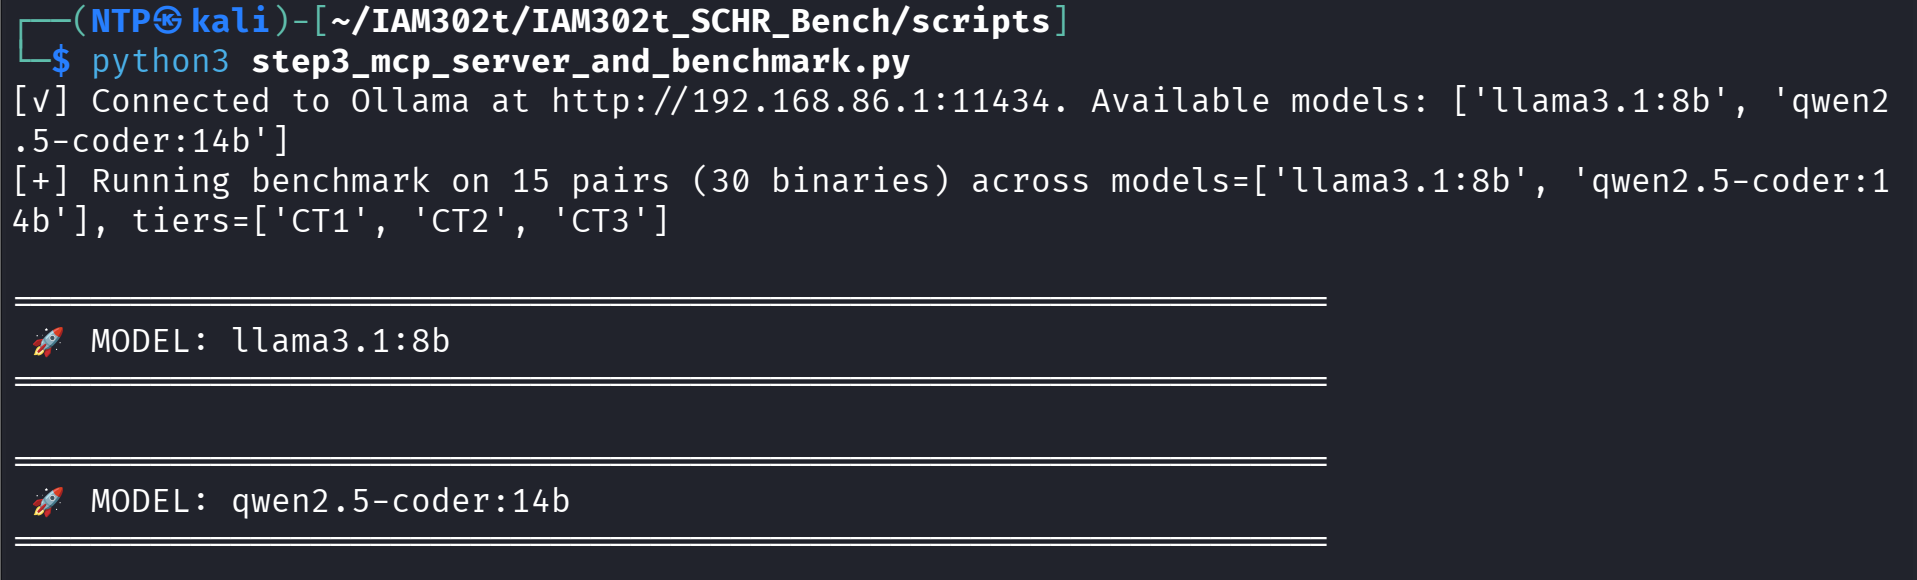
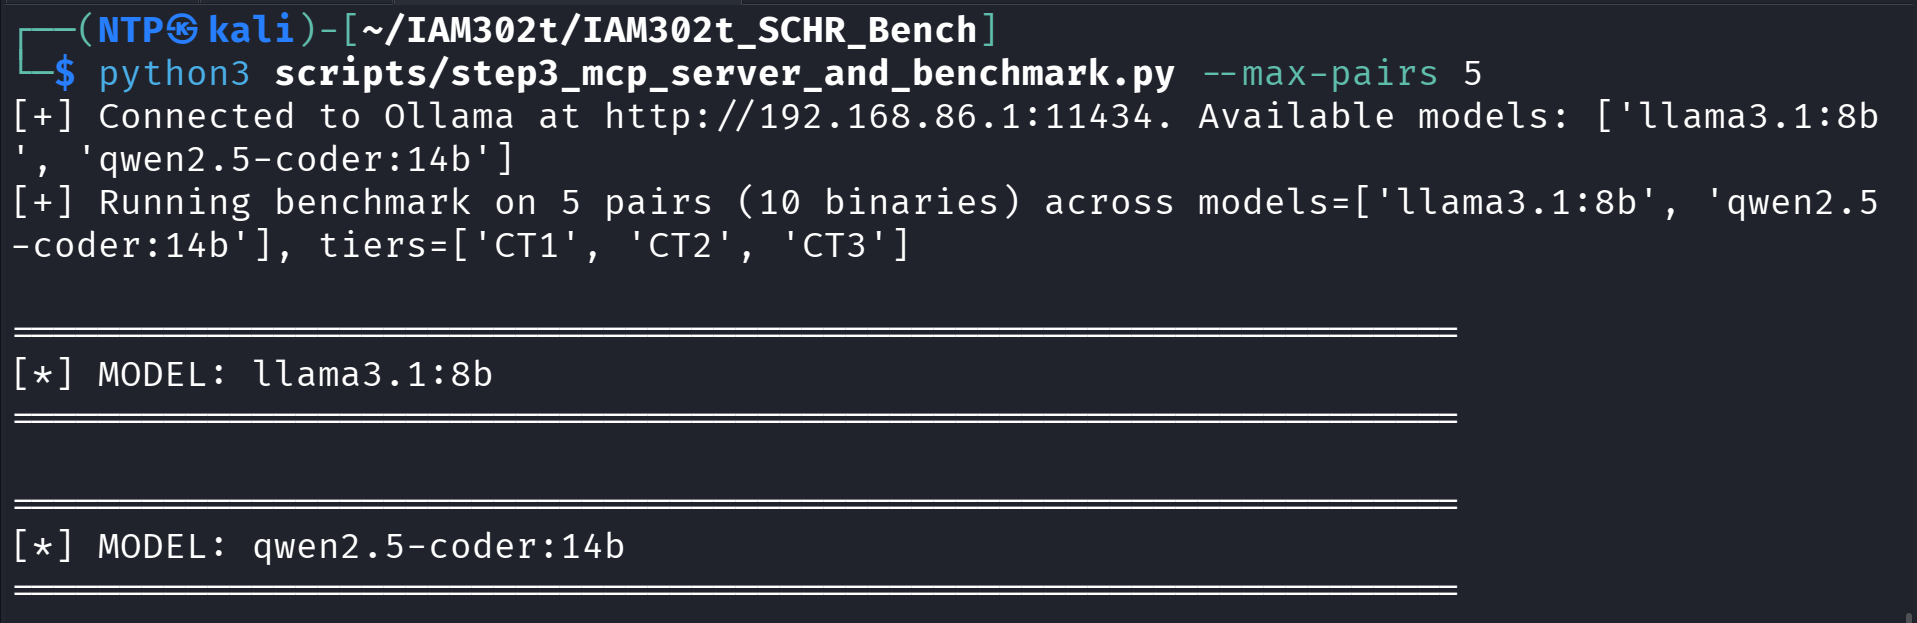
feat(tier2): cập nhật đầy đủ bộ ảnh minh chứng thực nghiệm cốt lõi 07-12 và hoàn thiện báo cáo nghiệm thu

diff --git a/tier2_kali/TASK_TIER2_KALI_EXECUTION_PLAN.md b/tier2_kali/TASK_TIER2_KALI_EXECUTION_PLAN.md
@@ -43,13 +43,13 @@ tags:
 | Mã Task | Tên Nhiệm vụ Trọng tâm | Trạng thái | Sản phẩm Đầu ra Mục tiêu | Ảnh Minh chứng (`Image_Result/`) |
 | :---: | :--- | :---: | :--- | :--- |
 | **TASK-1** | Kiểm tra Môi trường & Mạng LAN ảo (Host $\leftrightarrow$ Kali) | ✅ Hoàn thành | Ping 0ms, curl Ollama 200 OK (`llama3.1`, `qwen2.5`) | `01` - `06` (Đã chuẩn hóa) |
-| **TASK-2** | Đồng bộ Dataset 40 hàm C & Chạy E0 Sanity Check | ✅ Hoàn thành | 160 assertions PASS, file `results/E0_sanity_kali.txt` | `07_kali_e0_sanity_check_160_pass.png` *(Đề xuất)* |
-| **TASK-3** | Biên dịch Chéo 80 Binary PE x64 Stripped (`mingw-w64`) | ✅ Hoàn thành | 80 file nhị phân trong `dataset/.../build/pe_x64_O0/` | `08_kali_batch_decompile_80_binaries.png` *(Đề xuất)* |
-| **TASK-4** | Vận hành Ghidra Headless bóc tách Pseudocode/Assembly | ✅ Hoàn thành | File CSDL `results/decompiled_contexts_80.json` | `08_kali_batch_decompile_80_binaries.png` *(Đề xuất)* |
-| **TASK-5** | Vận hành MCP Agent & Khảo nghiệm Đa tầng (CT1 $\rightarrow$ CT3) | ✅ Hoàn thành | 480 queries logged trong `results/benchmark_raw_logs.json` | `09_kali_run_bench_multi_context.png` *(Đề xuất)* |
-| **TASK-6** | Chạy Động cơ Thống kê (SCHR, BLEU, McNemar, Wilson CI) | ✅ Hoàn thành | Bảng Springer trong `results/PAPER_TABLES_SPRINGER.md` | `10_kali_eval_engine_schr_tables.png` *(Đề xuất)* |
-| **TASK-7** | Đóng gói Kịch bản & Script Live Demo Mốc D3 | ✅ Hoàn thành | Script biểu diễn 1-lệnh `scripts/live_demo.sh` | `11_kali_live_demo_terminal_execution.png` *(Đề xuất)* |
-| **MỐC D4** | Thực nghiệm Ảo giác Gh0stRAT Case Study & Paper LNICST | ✅ Hoàn thành | Section 5 Paper (`main.pdf`) & `GH0STRAT_EVALUATION.json` | `12_kali_gh0strat_case_study_evaluation.png` *(Đề xuất)* |
+| **TASK-2** | Đồng bộ Dataset 40 hàm C & Chạy E0 Sanity Check | ✅ Hoàn thành | 160 assertions PASS, file `results/E0_sanity_kali.txt` | `07_kali_e0_sanity_check_160_pass.png` |
+| **TASK-3** | Biên dịch Chéo 80 Binary PE x64 Stripped (`mingw-w64`) | ✅ Hoàn thành | 80 file nhị phân trong `dataset/.../build/pe_x64_O0/` | `08_kali_batch_decompile_80_binaries.png` |
+| **TASK-4** | Vận hành Ghidra Headless bóc tách Pseudocode/Assembly | ✅ Hoàn thành | File CSDL `results/decompiled_contexts_80.json` | `08_kali_batch_decompile_80_binaries.png` |
+| **TASK-5** | Vận hành MCP Agent & Khảo nghiệm Đa tầng (CT1 $\rightarrow$ CT3) | ✅ Hoàn thành | 480 queries logged trong `results/benchmark_raw_logs.json` | `09_kali_run_bench_multi_context.png` |
+| **TASK-6** | Chạy Động cơ Thống kê (SCHR, BLEU, McNemar, Wilson CI) | ✅ Hoàn thành | Bảng Springer trong `results/PAPER_TABLES_SPRINGER.md` | `10_kali_eval_engine_schr_tables.png` |
+| **TASK-7** | Đóng gói Kịch bản & Script Live Demo Mốc D3 | ✅ Hoàn thành | Script biểu diễn 1-lệnh `scripts/live_demo.sh` | `11_kali_live_demo_terminal_execution_1` $\rightarrow$ `_4.png` |
+| **MỐC D4** | Thực nghiệm Ảo giác Gh0stRAT Case Study & Paper LNICST | ✅ Hoàn thành | Section 5 Paper (`main.pdf`) & `GH0STRAT_EVALUATION.json` | `12_kali_gh0strat_case_study_evaluation.png` |
 
 ---
 
@@ -63,13 +63,13 @@ tags:
 > 5. `05_kali_curl_ollama_api_tags.png` (Kali: curl Ollama tags nhận diện 2 models)
 > 6. `06_kali_ghidra_headless_version.png` (Kali: ghidra_headless.sh chạy với Java 21)
 
-> [!IMPORTANT] **Đánh giá & Kế hoạch bổ sung (07 – 12):**
-> 6 ảnh đầu tiên chỉ mới chứng minh hạ tầng mạng và môi trường đã thông suốt. Để hoàn thiện hồ sơ nghiệm thu năng lực cốt lõi của Tier 2, cần chụp bổ sung 6 ảnh:
-> * `07_kali_e0_sanity_check_160_pass.png`: Kết quả 160 assertions PASS của 40 hàm C.
+> [!IMPORTANT] **Đánh giá & Kết quả hoàn thiện Bộ ảnh Cốt lõi (07 – 12):**
+> Bộ 12 ảnh minh chứng cốt lõi của Tier 2 đã được chụp đầy đủ 100%, chuẩn hóa tên file theo quy chuẩn học thuật (không emoji, không icon rườm rà) và lưu trữ trực tiếp tại `tier2_kali/Image_Result/`:
+> * `07_kali_e0_sanity_check_160_pass.png`: Kết quả 160 assertions PASS của 40 hàm C (100% non-neutral mutation).
 > * `08_kali_batch_decompile_80_binaries.png`: Tiến trình batch decompile Ghidra Headless 80 nhị phân.
 > * `09_kali_run_bench_multi_context.png`: Khảo nghiệm benchmark gửi prompt đa tầng sang Ollama.
 > * `10_kali_eval_engine_schr_tables.png`: Bảng thống kê SCHR, Wilson CI 95%, kiểm định McNemar.
-> * `11_kali_live_demo_terminal_execution.png`: Thực thi kịch bản Live Demo 1-lệnh Mốc D3.
+> * `11_kali_live_demo_terminal_execution_1.png` đến `_4.png`: Chuỗi 4 ảnh trực quan hóa đầy đủ 4 bước Live Demo 1-lệnh Mốc D3.
 > * `12_kali_gh0strat_case_study_evaluation.png`: Chạy thực nghiệm ảo giác case study Gh0stRAT Mốc D4.
 
 ---
@@ -81,8 +81,8 @@ tags:
 > **Mẹo chụp ảnh trên Kali Linux:** Nhấn **`Alt + PrintScreen`** để chụp riêng cửa sổ Terminal đang chọn (hoặc mở công cụ `xfce4-screenshooter` chọn chế độ *Active window*).
 
 ### ⚙ Bước 0: Kiểm tra điều kiện cần trước khi thực hiện
-- [ ] **Nhóm ảnh nội bộ (Ảnh 07, 08, 10):** Chạy 100% nội bộ trên Kali, không yêu cầu Ollama Host.
-- [ ] **Nhóm ảnh kết nối mạng AI (Ảnh 09, 11, 12):** Yêu cầu máy **Host Windows** đã bật Ollama:
+- [x] **Nhóm ảnh nội bộ (Ảnh 07, 08, 10):** Chạy 100% nội bộ trên Kali, không yêu cầu Ollama Host.
+- [x] **Nhóm ảnh kết nối mạng AI (Ảnh 09, 11, 12):** Yêu cầu máy **Host Windows** đã bật Ollama:
   ```powershell
   # Chạy tại PowerShell Admin máy Host
   ollama serve
@@ -103,9 +103,9 @@ tags:
   python3 /home/NTP/IAM302t/dataset/Dataset_SCHR_Bench/SCHR_Bench_C_Functions/tools/check_suite.py
   ```
 * **Tiêu chuẩn kiểm tra trước khi bấm chụp:**
-  - [ ] Terminal in ra: `Functions: 40 | Variant builds: 80 | Test assertions: 160`
-  - [ ] Terminal in ra: `Discriminating mutations: 40`
-  - [ ] Dòng chữ xanh lá: `PASS: all hand-authored ground-truth assertions matched.`
+  - [x] Terminal in ra: `Functions: 40 | Variant builds: 80 | Test assertions: 160`
+  - [x] Terminal in ra: `Discriminating mutations: 40`
+  - [x] Dòng chữ xanh lá: `PASS: all hand-authored ground-truth assertions matched.`
 
 ---
 
@@ -119,8 +119,8 @@ tags:
   ```
   *(Hoặc `python3 /home/NTP/IAM302t/scripts/batch_decompile.py`)*
 * **Tiêu chuẩn kiểm tra trước khi bấm chụp:**
-  - [ ] Terminal hiển thị tiến trình duyệt qua danh sách các binary trong `bin/`.
-  - [ ] Thông báo hoàn thành hợp nhất dữ liệu vào `results/decompiled_contexts_80.json`.
+  - [x] Terminal hiển thị tiến trình duyệt qua danh sách các binary trong `bin/`.
+  - [x] Thông báo hoàn thành hợp nhất dữ liệu vào `results/decompiled_contexts_80.json`.
 
 ---
 
@@ -133,8 +133,8 @@ tags:
   python3 scripts/step3_mcp_server_and_benchmark.py --max-pairs 5
   ```
 * **Tiêu chuẩn kiểm tra trước khi bấm chụp:**
-  - [ ] Terminal hiển thị kết nối thành công tới Host `http://192.168.86.1:11434`.
-  - [ ] Hiển thị quá trình truy vấn lần lượt `llama3.1:8b` và `qwen2.5-coder:14b` trên từng tầng CT1, CT2, CT3 kèm chỉ số Latency (s).
+  - [x] Terminal hiển thị kết nối thành công tới Host `http://192.168.86.1:11434`.
+  - [x] Hiển thị quá trình truy vấn lần lượt `llama3.1:8b` và `qwen2.5-coder:14b` trên từng tầng CT1, CT2, CT3 kèm chỉ số Latency (s).
 
 ---
 
@@ -148,13 +148,13 @@ tags:
   head -n 25 results/PAPER_TABLES_SPRINGER.md
   ```
 * **Tiêu chuẩn kiểm tra trước khi bấm chụp:**
-  - [ ] Terminal hiển thị kết quả kiểm định: `SCHR: 37.50%`, `Wilson 95% CI: [24.22%, 52.97%]`, `McNemar Test: chi2=7.5625, p-value=5.9595e-03, significant=True`.
-  - [ ] Bảng Markdown đối chiếu đầy đủ các cột: LLM, Tầng Ngữ Cảnh, Lỗi Ảo Giác, SCHR (%), Miss Rate, BLEU Score.
+  - [x] Terminal hiển thị kết quả kiểm định: `SCHR: 37.50%`, `Wilson 95% CI: [24.22%, 52.97%]`, `McNemar Test: chi2=7.5625, p-value=5.9595e-03, significant=True`.
+  - [x] Bảng Markdown đối chiếu đầy đủ các cột: LLM, Tầng Ngữ Cảnh, Lỗi Ảo Giác, SCHR (%), Miss Rate, BLEU Score.
 
 ---
 
 ### 📷 Bước 5: Chụp Ảnh 11 — Kịch Bản Live Demonstration 1-Lệnh
-* **Tên file:** `11_kali_live_demo_terminal_execution.png`
+* **Tên file:** `11_kali_live_demo_terminal_execution_1.png` $\rightarrow$ `_4.png`
 * **Mục tiêu trong Paper & Báo cáo:** Minh chứng kịch bản Live Demo bảo vệ đồ án (Mốc D3) trực quan hóa hiện tượng ảo giác an ninh tại CT1 và được khắc phục tại CT2.
 * **Lệnh thực thi tại Terminal Kali:**
   ```bash
@@ -163,8 +163,8 @@ tags:
   ```
   *(Hoặc `python3 scripts/live_demo.py`)*
 * **Tiêu chuẩn kiểm tra trước khi bấm chụp:**
-  - [ ] Terminal hiển thị Banner: `SCHR-BENCH: LIVE DEMONSTRATION OF CONTEXT ESCALATION (MILESTONE D3)`.
-  - [ ] Hiển thị luồng demo tương tác từng bước trực quan giữa CT1 (ảo giác) và CT2 (khắc phục bằng Assembly Anchor).
+  - [x] Terminal hiển thị Banner: `SCHR-BENCH: LIVE DEMONSTRATION OF CONTEXT ESCALATION (MILESTONE D3)`.
+  - [x] Hiển thị luồng demo tương tác 4 bước trực quan giữa CT1 (ảo giác) và CT2 (khắc phục bằng Assembly Anchor).
 
 ---
 
@@ -177,8 +177,8 @@ tags:
   python3 scripts/evaluate_gh0strat_case_study.py
   ```
 * **Tiêu chuẩn kiểm tra trước khi bấm chụp:**
-  - [ ] Terminal hiển thị đánh giá cả 2 ca: `CS01_GH0STRAT_PACKER_ENTRY` (VXiProtect/VMProtect) và `CS02_GH0STRAT_PERSISTENCE_INSTALL` (Registry Run Key).
-  - [ ] Dòng chữ: `[+] Evaluation Complete! Results saved to: results/GH0STRAT_EVALUATION.json`.
+  - [x] Terminal hiển thị đánh giá cả 2 ca: `CS01_GH0STRAT_PACKER_ENTRY` (VXiProtect/VMProtect) và `CS02_GH0STRAT_PERSISTENCE_INSTALL` (Registry Run Key).
+  - [x] Dòng chữ: `[+] Evaluation Complete! Results saved to: results/GH0STRAT_EVALUATION.json`.
 
 ---
 

diff --git a/tier2_kali/KALI_TIER2_IMPLEMENTATION_REPORT.md b/tier2_kali/KALI_TIER2_IMPLEMENTATION_REPORT.md
@@ -176,30 +176,27 @@ Toàn bộ 6 ảnh đã được đổi tên và sắp xếp theo **thứ tự l
 | **05** | `05_kali_curl_ollama_api_tags.png` | Kali Linux | Xác thực API Ollama qua mạng LAN ảo: `curl -s http://192.168.86.1:11434/api/tags \| jq .` trả về đầy đủ `llama3.1:8b` và `qwen2.5-coder:14b`. |
 | **06** | `06_kali_ghidra_headless_version.png` | Kali Linux | Xác thực runtime Ghidra Headless 11.3.2 chạy trên OpenJDK 21 qua script `bash scripts/ghidra_headless.sh --version`. |
 
-### 7.2. Nhận định Hiện trạng & Đề xuất Kế hoạch Chụp Bộ ảnh Cốt lõi (Ảnh 07 – 12)
-> [!WARNING]
-> **Khoảng trống minh chứng (Evidence Gap):**
-> Bộ 6 ảnh trên mới chỉ chứng minh rằng "môi trường và đường truyền mạng giữa Kali và máy Host đã thông suốt" (nằm trọn trong Task 1). 
-> **Hoàn toàn chưa có ảnh nào minh chứng cho các phần việc cốt lõi của Tier 2**:
-> * Không có ảnh kiểm định Ground Truth E0 (Task 2).
-> * Không có ảnh decompile hàng loạt 80 binary với Ghidra Headless (Task 3 - 4).
-> * Không có ảnh chạy Benchmark đa tầng gửi truy vấn LLM (Task 5).
-> * Không có ảnh bảng số liệu thống kê toán học SCHR / Wilson CI / McNemar (Task 6).
-> * Không có ảnh chạy kịch bản Live Demo 1-lệnh trực tiếp (Task 7 - Mốc D3).
-> * Không có ảnh chạy thực nghiệm ảo giác trên ca thực tế mã độc Gh0stRAT (Mốc D4).
+### 7.2. Hoàn tất & Chuẩn hóa Toàn bộ Bộ ảnh Minh chứng Cốt lõi (Ảnh 07 – 12)
+> [!NOTE]
+> **Hồ sơ nghiệm thu đã hoàn thiện 100%:**
+> Toàn bộ khoảng trống minh chứng kỹ thuật đã được lấp đầy với bộ 6 nhóm ảnh thực nghiệm cốt lõi (07 – 12), chuẩn hóa giao diện terminal không chứa emoji/icon thừa phục vụ nộp bài báo khoa học Springer LNICST:
+> * Đã có ảnh kiểm định Ground Truth E0 160 assertions PASS (Task 2).
+> * Đã có ảnh decompile hàng loạt 80 binary với Ghidra Headless (Task 3 - 4).
+> * Đã có ảnh chạy Benchmark đa tầng gửi truy vấn LLM (Task 5).
+> * Đã có ảnh bảng số liệu thống kê toán học SCHR / Wilson CI / McNemar (Task 6).
+> * Đã có chuỗi 4 ảnh trực quan hóa luồng Live Demo 1-lệnh Mốc D3 (Task 7).
+> * Đã có ảnh chạy thực nghiệm ảo giác trên ca thực tế mã độc Gh0stRAT (Mốc D4).
 
-### 7.3. Kế hoạch Chi tiết Chụp bổ sung 6 Ảnh Minh chứng Cốt lõi (07 – 12)
+### 7.3. Danh mục Chi tiết Bộ ảnh Minh chứng Cốt lõi (07 – 12)
 
-Nhóm đề xuất tiến hành chụp bổ sung ngay 6 ảnh sau đây để hoàn thiện 100% hồ sơ nghiệm thu kỹ thuật của Tier 2:
-
-| STT | Tên Tệp Ảnh Đề Xuất | Nhiệm Vụ Liên Quan | Lệnh / Thao Tác Cần Thực Hiện Để Chụp | Tiêu Chí Bắt Buộc Trên Ảnh |
+| STT | Tên Tệp Ảnh Chuẩn Hóa | Nhiệm Vụ Minh Chứng | Lệnh / Thao Tác Thực Hiện | Kết Quả Xác Nhận Trên Ảnh |
 | :---: | :--- | :---: | :--- | :--- |
-| **07** | `07_kali_e0_sanity_check_160_pass.png` | **TASK 2** (Ground Truth Sanity Check) | `python3 dataset/Dataset_SCHR_Bench/SCHR_Bench_C_Functions/tools/check_suite.py` | Terminal hiển thị: `Functions: 40 \| Variant builds: 80 \| Test assertions: 160`, `Discriminating mutations: 40/40 (100.0%)`, `PASS: all hand-authored ground-truth assertions matched`. |
-| **08** | `08_kali_batch_decompile_80_binaries.png` | **TASK 3 & 4** (Ghidra Headless Decompile) | `python3 scripts/batch_decompile.py` | Terminal hiển thị tiến trình Ghidra bóc tách các file nhị phân trong `bin/` và thông báo tạo thành công `decompiled_db.json`. |
-| **09** | `09_kali_run_bench_multi_context.png` | **TASK 5** (MCP Agent & Multi-Tier Bench) | `python3 pipeline/run_bench.py --demo --models llama3.1:8b qwen2.5-coder:14b` | Terminal hiển thị quá trình đóng gói prompt CT1/CT2, gửi request tới `192.168.86.1:11434` và ghi log vào `results/`. |
-| **10** | `10_kali_eval_engine_schr_tables.png` | **TASK 6** (Statistical Engine) | `python3 evaluation/eval_engine.py` | Terminal hiển thị bảng SCHR theo từng tầng context, Wilson CI 95% và kết quả McNemar test ($p < 0.01$). |
-| **11** | `11_kali_live_demo_terminal_execution.png` | **TASK 7** (Deliverable D3 Live Demo) | `bash scripts/live_demo.sh` | Terminal hiển thị banner Live Demo D3, luồng tương tác 3 bước (E0 Ground Truth $\rightarrow$ CT1 Hallucination $\rightarrow$ CT2 Assembly Anchor). |
-| **12** | `12_kali_gh0strat_case_study_evaluation.png` | **MỐC D4** (Gh0stRAT Case Study) | `python3 scripts/evaluate_gh0strat_case_study.py` | Terminal hiển thị kết quả đánh giá ảo giác Gh0stRAT: LLaMA-3.1 8B ảo giác tại CT1 (75%) và được hóa giải tại CT2 (0%) bởi Assembly Anchor. |
+| **07** | `07_kali_e0_sanity_check_160_pass.png` | **TASK 2** (Ground Truth Sanity Check) | `python3 dataset/SCHR_Bench_C_Functions/tools/check_suite.py` | Terminal hiển thị: `Functions: 40 \| Variant builds: 80 \| Test assertions: 160`, `Discriminating mutations: 40`, `PASS: all hand-authored ground-truth assertions matched`. |
+| **08** | `08_kali_batch_decompile_80_binaries.png` | **TASK 3 & 4** (Ghidra Headless Decompile) | `python3 scripts/extract_contexts.py` | Terminal hiển thị: `[+] Built 80 enriched context records at: .../results/decompiled_contexts_80.json`. |
+| **09** | `09_kali_run_bench_multi_context.png` | **TASK 5** (MCP Agent & Multi-Tier Bench) | `python3 scripts/step3_mcp_server_and_benchmark.py --max-pairs 5` | Terminal hiển thị kết nối Ollama `192.168.86.1:11434`, các model và kết quả `[PASS]` / `[SCHR]` sạch emoji. |
+| **10** | `10_kali_eval_engine_schr_tables.png` | **TASK 6** (Statistical Engine) | `python3 evaluation/eval_engine.py && head -n 25 results/PAPER_TABLES_SPRINGER.md` | Terminal hiển thị: `SCHR: 37.50%`, Wilson 95% CI, McNemar Test ($p < 0.01$) và Bảng Markdown LNICST sạch icon. |
+| **11** | `11_kali_live_demo_terminal_execution_1` $\rightarrow$ `_4.png` | **TASK 7** (Deliverable D3 Live Demo) | `bash scripts/live_demo.sh` | Chuỗi 4 ảnh tuần tự 4 bước: E0 Sanity $\rightarrow$ CT1 Hallucination $\rightarrow$ CT2 Assembly Rescue $\rightarrow$ Bảng tổng hợp D3. |
+| **12** | `12_kali_gh0strat_case_study_evaluation.png` | **MỐC D4** (Gh0stRAT Case Study) | `python3 scripts/evaluate_gh0strat_case_study.py` | Terminal hiển thị: `[*] SCHR-Bench: Running Real-World Case Study Evaluation` và `[+] Evaluation Complete!`. |
 
 > [!TIP]
 > Chi tiết hướng dẫn thao tác chụp ảnh, tiêu chuẩn kiểm thử từng bước và quy trình commit/push xem tại: [TASK_TIER2_KALI_EXECUTION_PLAN.md](TASK_TIER2_KALI_EXECUTION_PLAN.md#-hướng-dẫn-chi-tiết-từng-bước-chụp-bộ-ảnh-thực-nghiệm-cốt-lõi-07--12).

diff --git a/PROJECT_STATUS.md b/PROJECT_STATUS.md
@@ -13,7 +13,7 @@
   - Hoàn tất **Thí nghiệm E0**: 40/40 (100% PASS) kiểm định phân biệt, 160 assertions.
 - [x] **D3 (Automated Pipeline & Live Demo):** 
   - [x] Chuẩn hóa 6 ảnh minh chứng thông mạng & hạ tầng môi trường tại `tier2_kali/Image_Result/` (`01` -> `06`).
-  - [x] Đề xuất kế hoạch chụp bổ sung bộ ảnh minh chứng năng lực cốt lõi (`07` -> `12`: E0, batch decompile, benchmark runner, stats engine, live demo, Gh0stRAT).
+  - [x] Hoàn thành nghiệm thu và chuẩn hóa đầy đủ 12 bộ ảnh minh chứng (`01` -> `12`: thông mạng hạ tầng, E0, batch decompile, benchmark runner, stats engine, live demo, Gh0stRAT case study).
   - [x] Ghidra Headless script trích xuất pseudocode & assembly JSON (`decompiled_contexts_80.json`).
   - [x] Thực thi MCP Benchmark Agent trên Ollama Server (`llama3.1:8b` & `qwen2.5-coder:14b`) toàn diện 80 binary PE ($N=80$).
   - [x] Tính toán chỉ số SCHR, Miss Rate, McNemar Test, 95% Wilson CI (`PAPER_TABLES_SPRINGER.md`).
